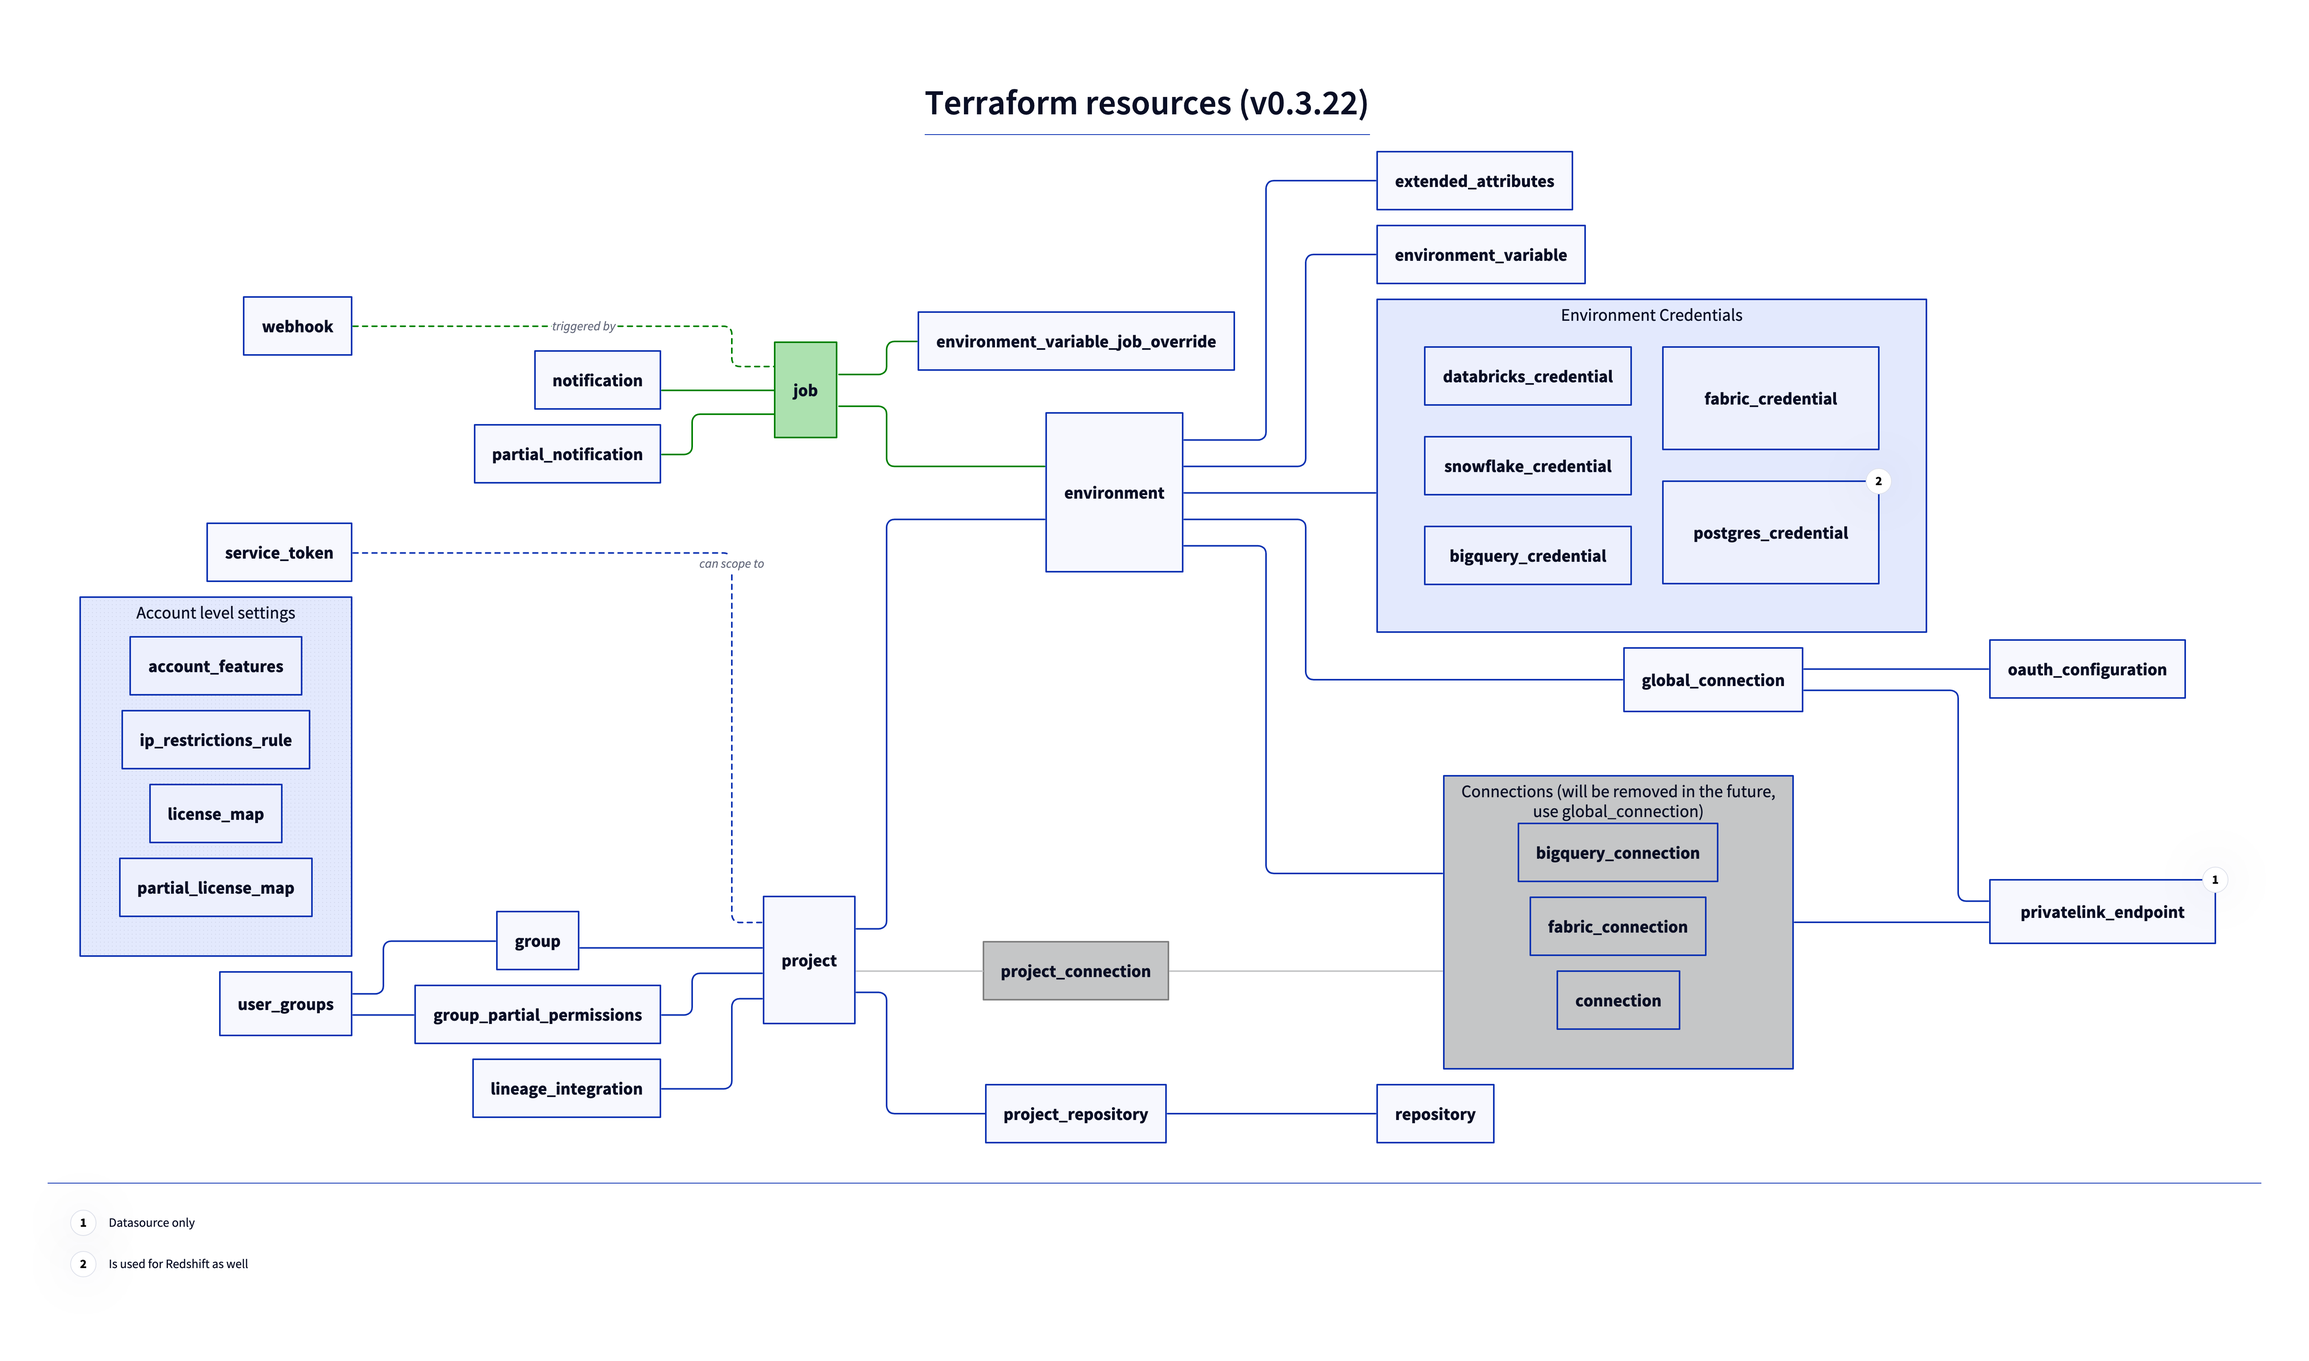
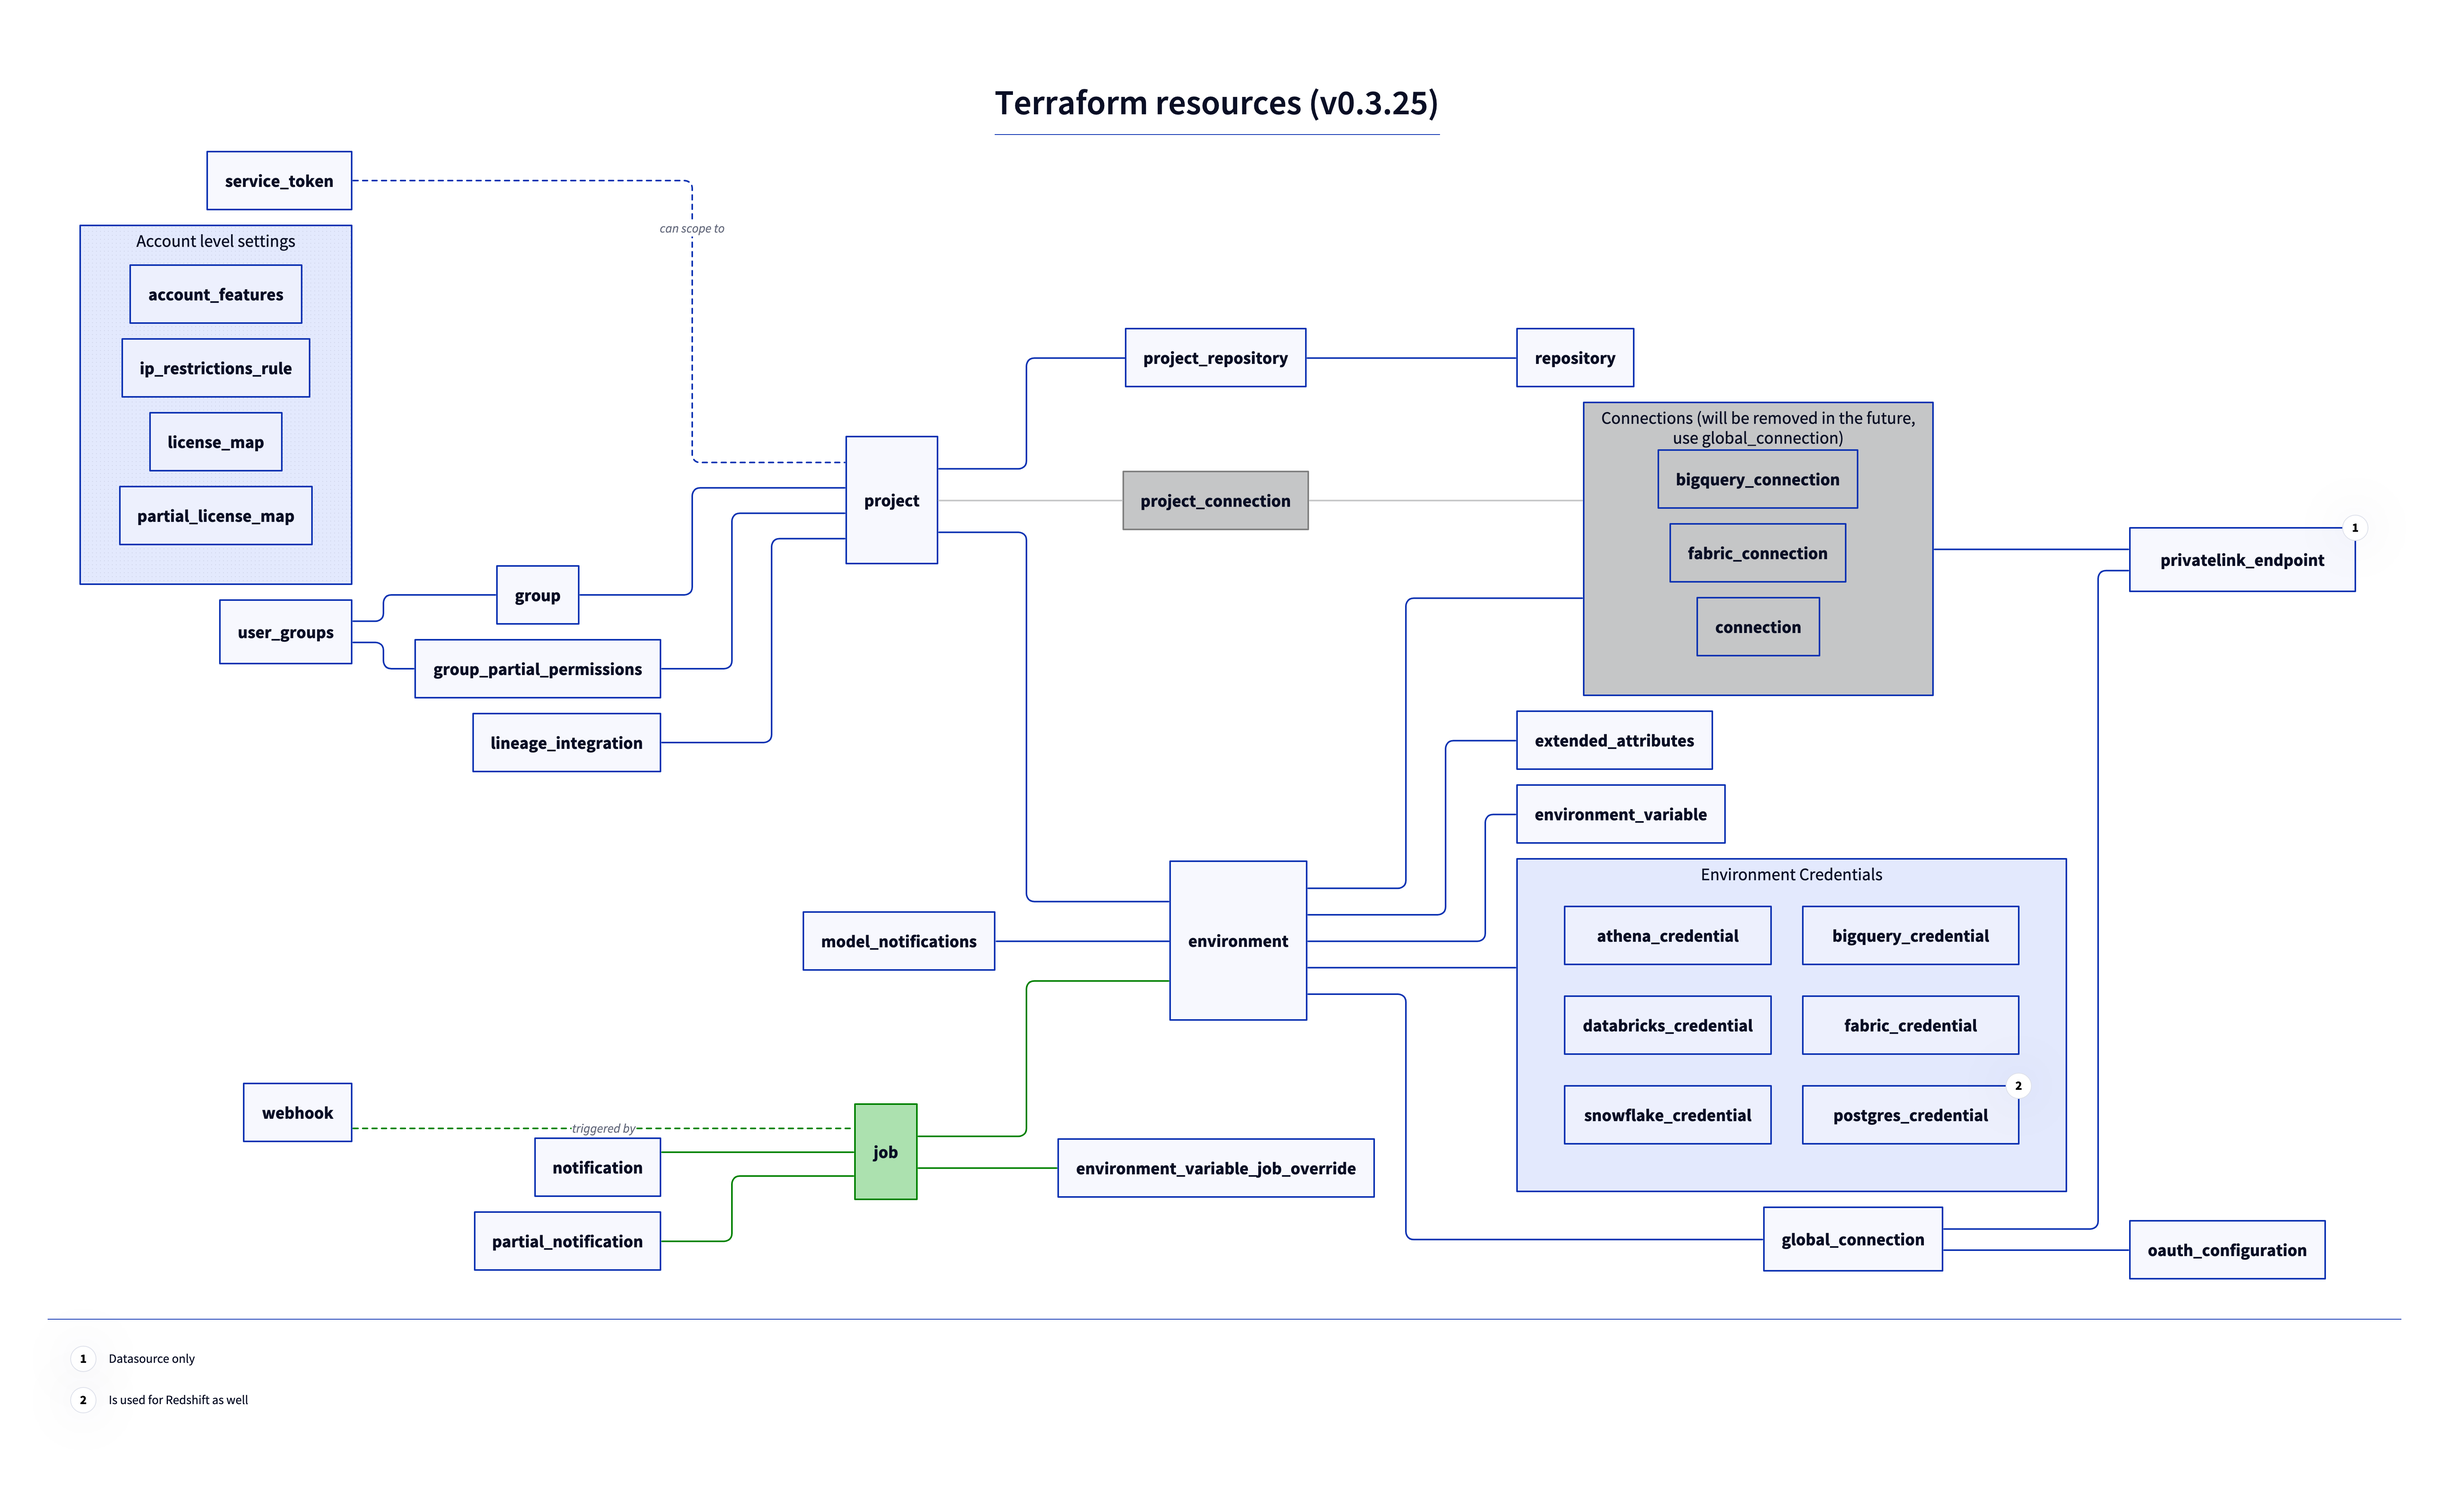
Update diagram and changelog

diff --git a/CHANGELOG.md b/CHANGELOG.md
@@ -2,7 +2,14 @@
 
 All notable changes to this project will be documented in this file.
 
-## [Unreleased](https://github.com/dbt-labs/terraform-provider-dbtcloud/compare/v0.3.24...HEAD)
+## [Unreleased](https://github.com/dbt-labs/terraform-provider-dbtcloud/compare/v0.3.25...HEAD)
+
+# [0.3.25](https://github.com/dbt-labs/terraform-provider-dbtcloud/compare/v0.3.24...v0.3.25)
+
+### Changes
+- [#319](https://github.com/dbt-labs/terraform-provider-dbtcloud/issues/319) - Add the resource `dbtcloud_model_notifications` to allow setting model level notifications at the env level
+- Create a new resource for setting Athena credendtials :  `dbtcloud_athena_credential`
+
 
 # [0.3.24](https://github.com/dbt-labs/terraform-provider-dbtcloud/compare/v0.3.23...v0.3.24)
 
